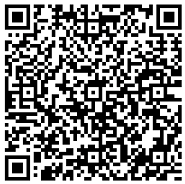
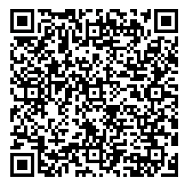
Update wechat.png

diff --git a/README.md b/README.md
@@ -1,5 +1,5 @@
 # nniutil
-本 Repo 主要是用来存放方便中文用户交流的一些辅助信息，当前只存放了：
+本 Repo 主要是用来存放方便 NNI 中文用户交流的一些辅助信息，当前只存放了：
 - 中文用户交流微信群二维码，每周更新（如果二维码过期了，欢迎提 issue 提醒） 
 - [NNI 概述](https://www.msra.cn/zh-cn/news/features/nni)
 - [中文 1.7 release tutorial](v1.7_tutorial/README.md)
